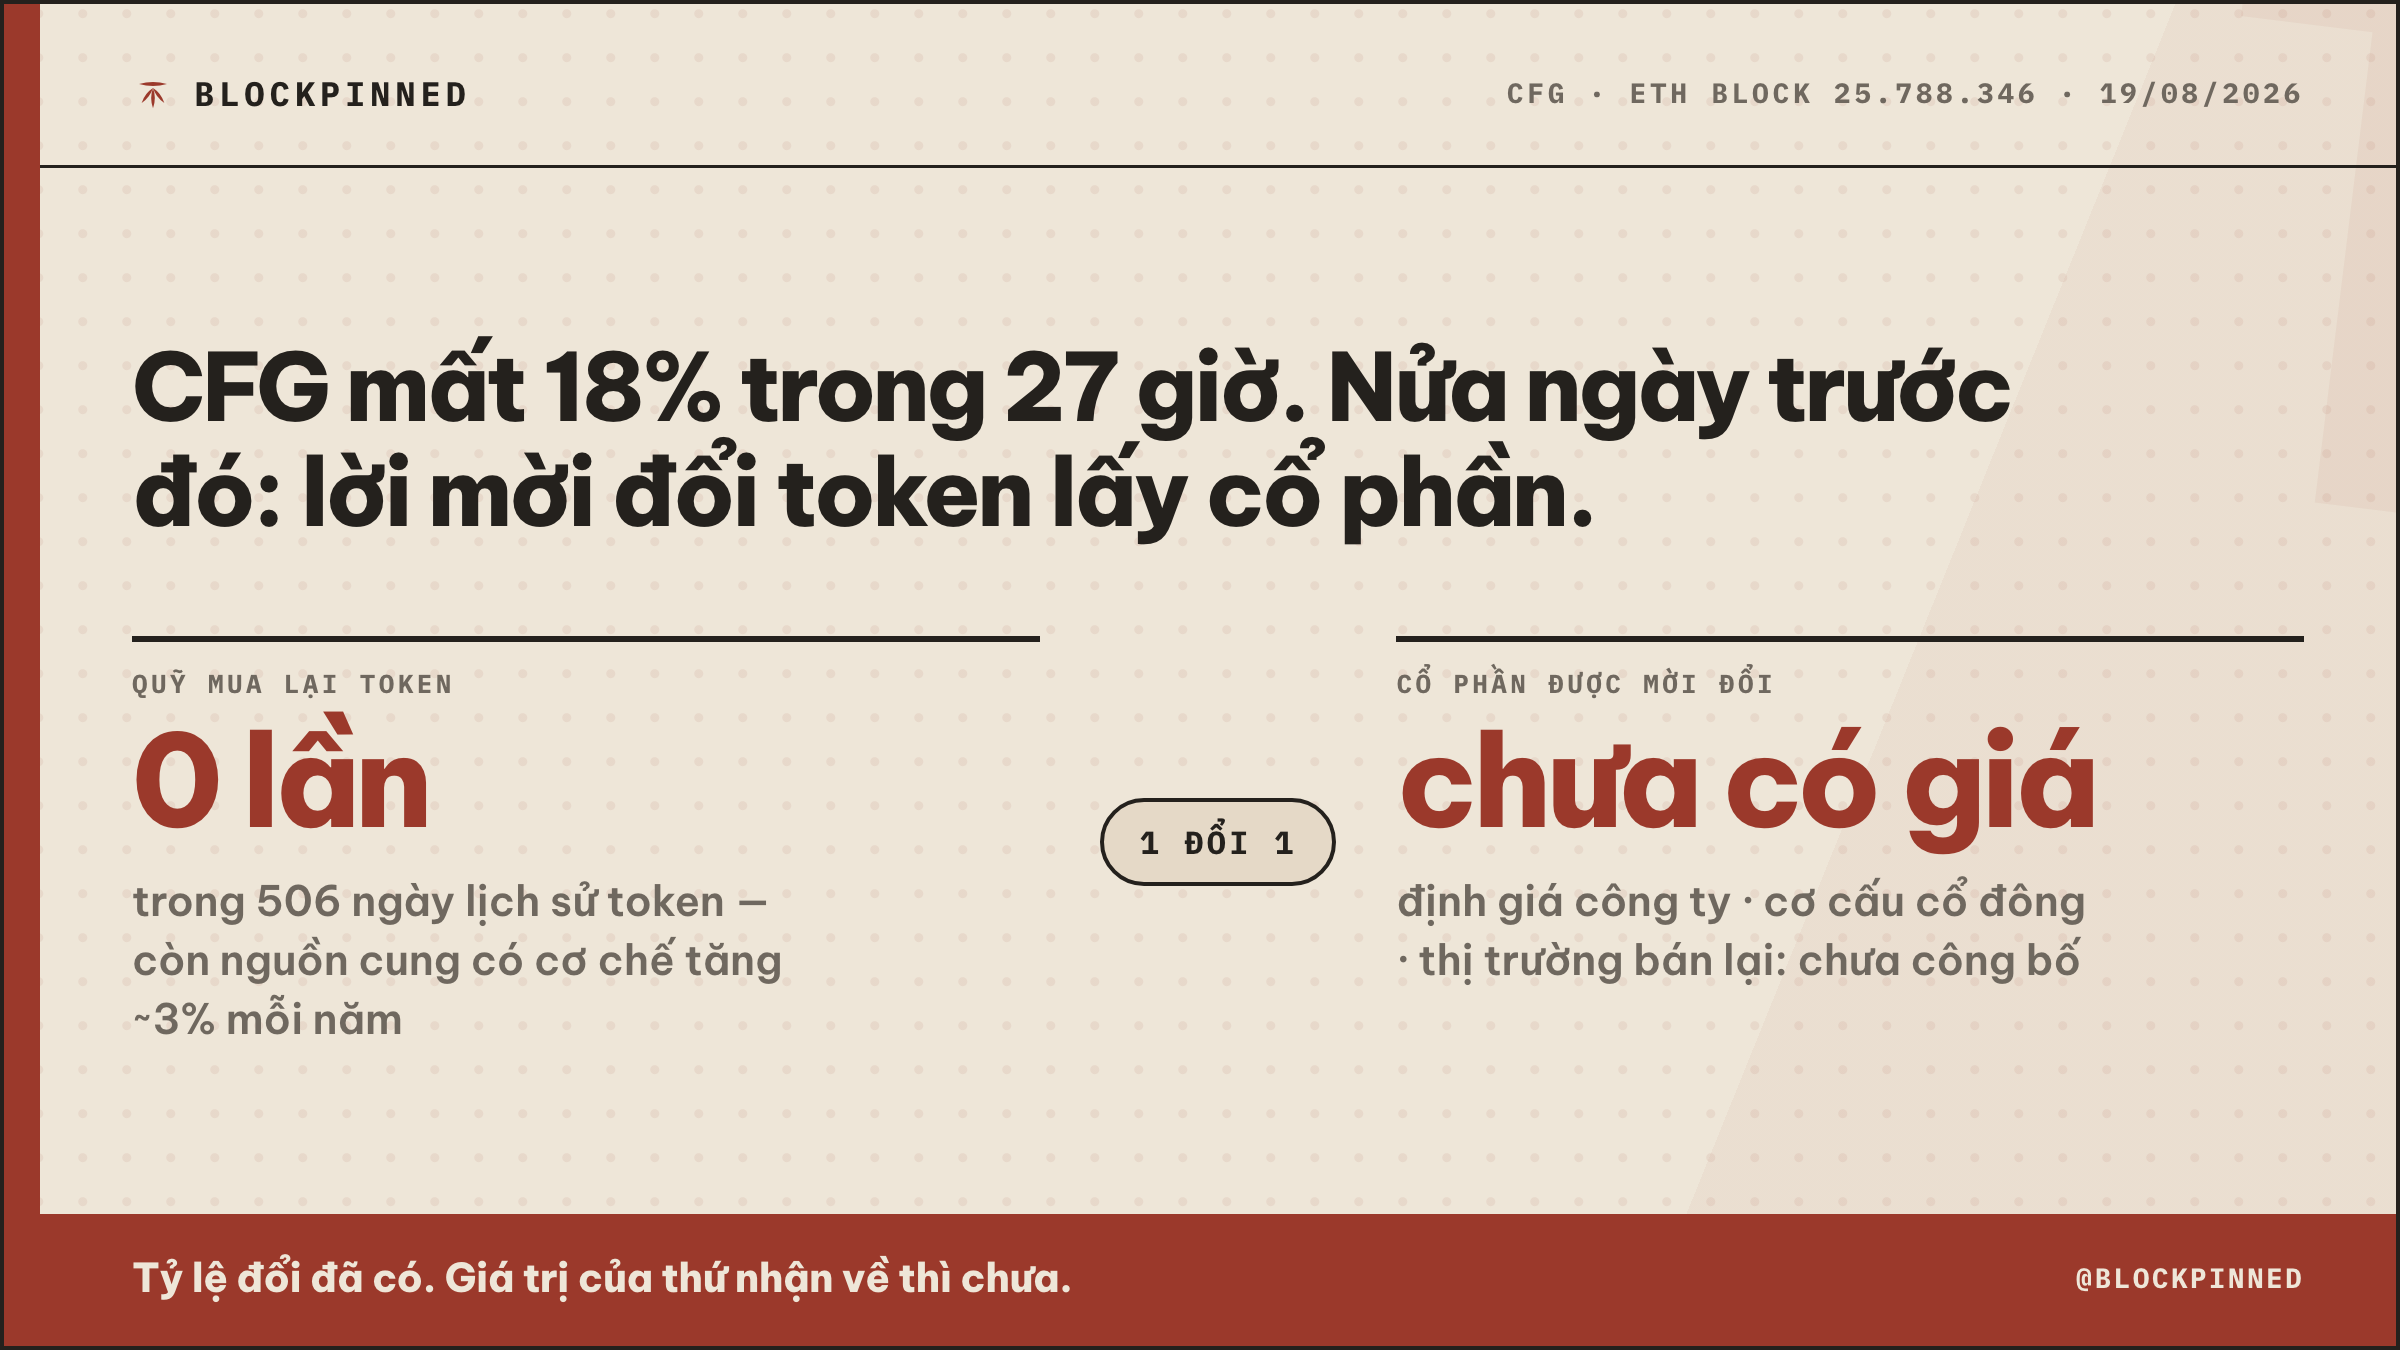
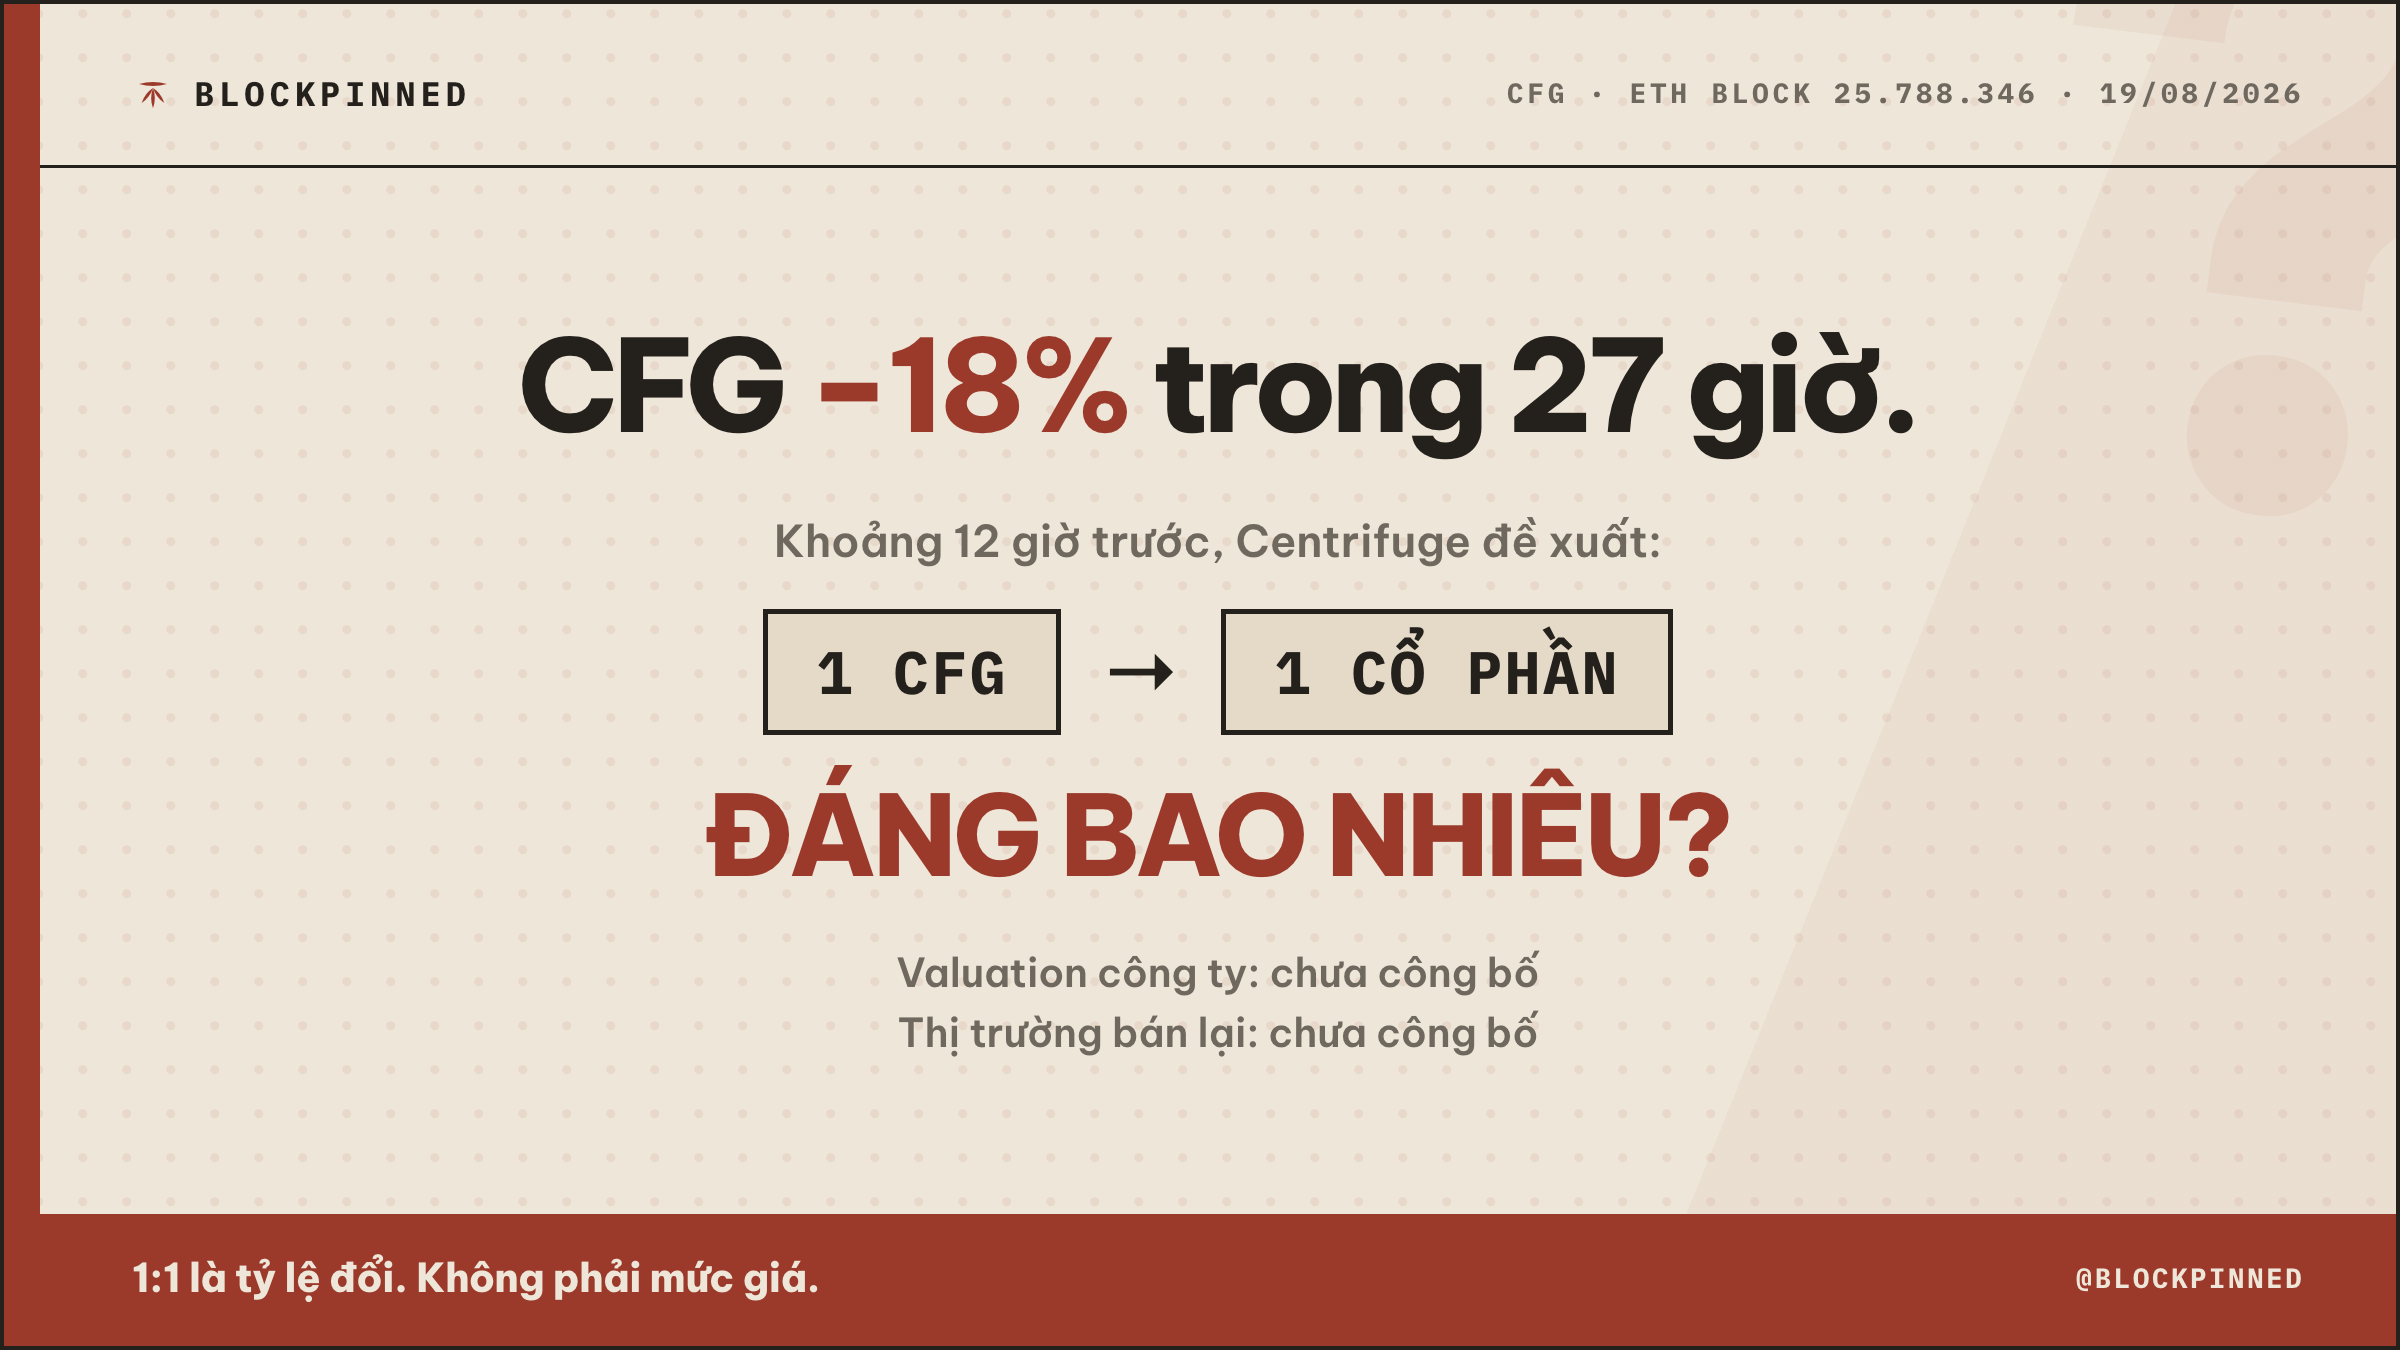
Card CFG bản 2: một tension duy nhất (concept user 20/08)

Changed region(s): [[0.0312, 0.2489, 0.9688, 0.7778], [0.0625, 0.9333, 0.4375, 0.9644]]

diff --git a/build.py b/build.py
@@ -197,14 +197,14 @@ LOGO_TOKEN = {
 
 NGUON_ASSET = {
     # bài CFG 20/08 — nguồn `template/card-cfg-dieu-gi-dung-sau-cu-sup.html`, dựng bằng
-    # `template/render_card_v2.py` qua pipeline editorial (`card_editorial.py new` → ruột
-    # tự dựng: hai vế nối bằng con nhộng "1 ĐỔI 1"). Outsider test PASS bởi độc giả mù
-    # (independent-reader), bắt 1 vấp đã sửa: nhãn vế trái phải là "QUỸ MUA LẠI TOKEN"
-    # thì "0 lần" mới khớp lần đọc đầu.
+    # `template/render_card_v2.py` qua pipeline editorial. Bản 1 (hai vế "0 lần / chưa
+    # có giá" nối con nhộng 1 ĐỔI 1) bị user BÁC cùng ngày: "nhét 3 câu chuyện cùng lúc,
+    # người chưa đọc bài không biết nhìn đâu trước". Bản 2 theo concept user chọn — MỘT
+    # tension: −18% → [1 CFG]→[1 CỔ PHẦN] → ĐÁNG BAO NHIÊU?; 0-buyback/3% CỐ Ý bỏ khỏi
+    # cover (là reveal thứ hai của bài, không phải thứ nhét lên bìa).
     # 🔴 CẤM gọi mốc giá 18/08 07:00Z là "đỉnh" (user chốt 20/08 — dùng "mốc bắt đầu
     #    cửa sổ giảm/đo"); CẤM nói cổ phần "không bán được" — đúng chữ là "thị trường
-    #    bán lại: chưa công bố" (thanh khoản, không phải phán quyết pháp lý); "0 lần"
-    #    phải đứng cạnh phạm vi "quỹ mua lại · 506 ngày" — không nới thành toàn hệ.
+    #    bán lại: chưa công bố" (thanh khoản, không phải phán quyết pháp lý).
     "card-cfg-dieu-gi-dung-sau-cu-sup.png": "png",
     # bài BSC 19/08 — nguồn `template/card-bsc-ban-10000-do-nhan-ve-1-58.html`, dựng bằng
     # `template/render_card_v2.py`. Khuôn xác định bằng `template/khuon_card.py` (chép từ
